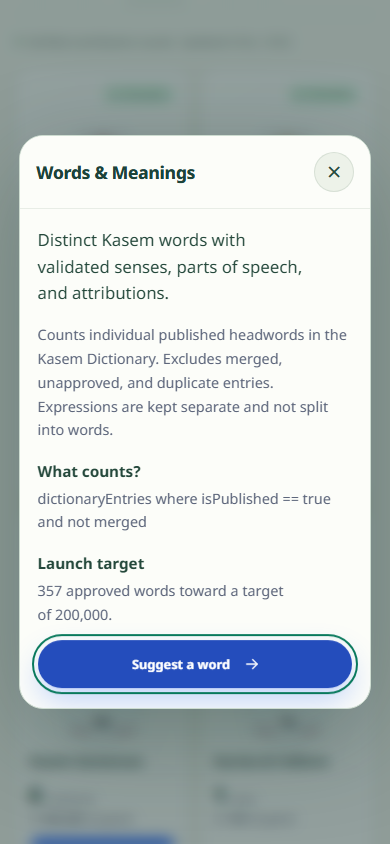
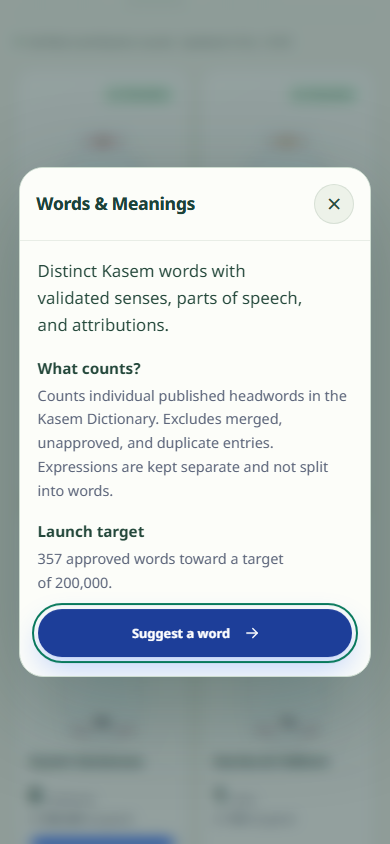
docs(progress): record final popup screenshots and validation

diff --git a/apps/updates-blog/posts/2026-10-04-progress-fullscreen-popups/README.md b/apps/updates-blog/posts/2026-10-04-progress-fullscreen-popups/README.md
@@ -28,7 +28,7 @@ Actual product screenshots, visually inspected after capture:
 - `images/progress-fullscreen-desktop.png`: Desktop fullscreen progress gallery, captured from a 1440 × 1000 browser viewport as a full-page PNG.
 - `images/progress-popup-mobile.png`: Mobile explanation popup, captured from a 390 × 844 browser viewport.
 
-Credit: Indigen World. Both screenshots were captured from the actual locally served product at `http://127.0.0.1:5179/progress` on 2026-10-04 at 13:52 UTC. The page used live production aggregate counts, including 357 words and 105 expressions, without fixture or sample data. Motion was manually paused for these still captures. The captions identify them as local previews; the images do not themselves prove deployment of the redesign.
+Credit: Indigen World. Both screenshots were captured from the actual locally served product at `http://127.0.0.1:5179/progress` on 2026-10-04 at 13:59 UTC, after the final popup copy cleanup. The page used live production aggregate counts, including 357 words and 105 expressions, without fixture or sample data. Motion was manually paused for these still captures. The captions identify them as local previews; the images do not themselves prove deployment of the redesign.
 
 Blogger: choose Insert image → Upload from computer for both assets, replace each relative `src` in `post.html` with its Blogger image URL, and keep the descriptive alt text and captions. Preview the article at desktop and phone widths.
 
@@ -37,7 +37,7 @@ Blogger: choose Insert image → Upload from computer for both assets, replace e
 - `npm run check:website` passed on 2026-10-04: TypeScript checks, all 13 public-route checks, all 12 progress calculation/presentation invariants, four runtime helper tests and the production build.
 - The existing 11 progress checks are preserved. The added presentation check covers immersive route wiring, hidden global header/footer, popup buttons, native dialog accessibility, Escape handling and focus-restoration hooks.
 - Runtime tests import the actual liquid appearance helper and cover empty/invalid inputs, unknown targets, exact colour milestones and colour continuity, increasing and bounded bubble volume, and exceeded-target clamping.
-- Behavioral checks passed in an isolated local Chromium browser: 10 categories without global header/footer or dropdowns, no production sample controls, all popup paths, Escape and backdrop dismissal, body scroll lock, trigger focus restoration, both vessel views, and mobile layout without horizontal overflow or clipped popups. Reduced motion stopped vessel bubbles and background auras.
+- Behavioral checks passed in an isolated local Chromium browser, most recently at 14:00 UTC on 2026-10-04: 10 categories without global header/footer or dropdowns, no production sample controls, all popup paths, Escape and backdrop dismissal, body scroll lock, trigger focus restoration, both vessel views, and mobile layout without horizontal overflow or clipped popups. Reduced motion stopped vessel bubbles and background auras.
 - Screenshot captures were visually inspected. The local preview used live production data; test fixtures were not used in the release images.
 - Deployment status: pending. Update this section and the article availability statement only after public Hosting release evidence is available.
 
